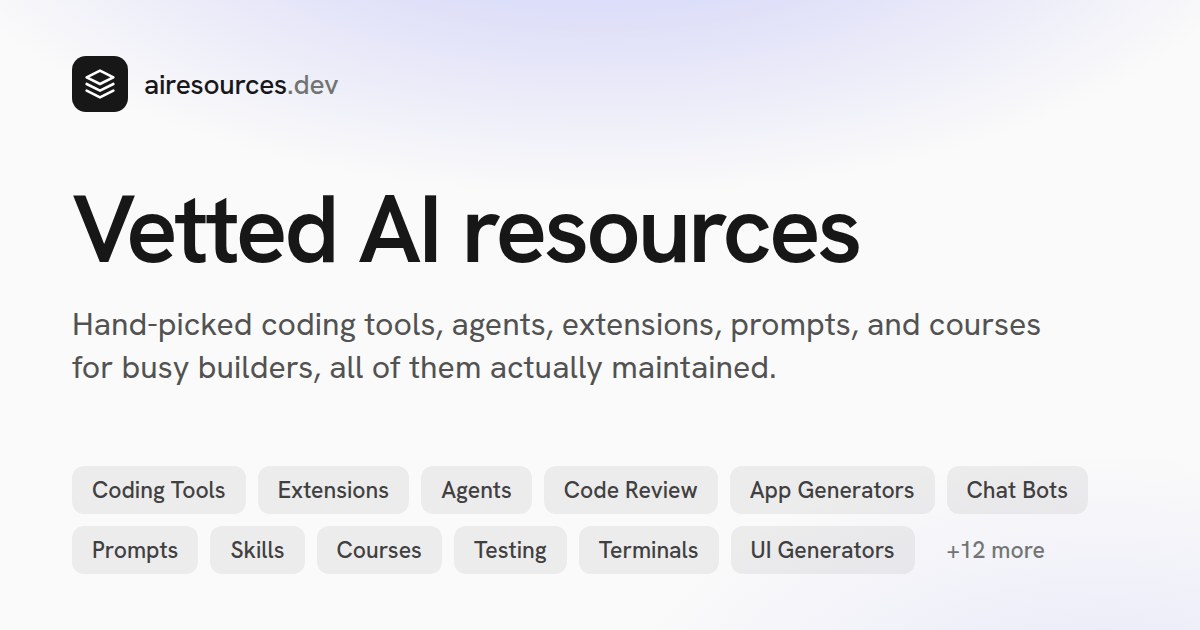
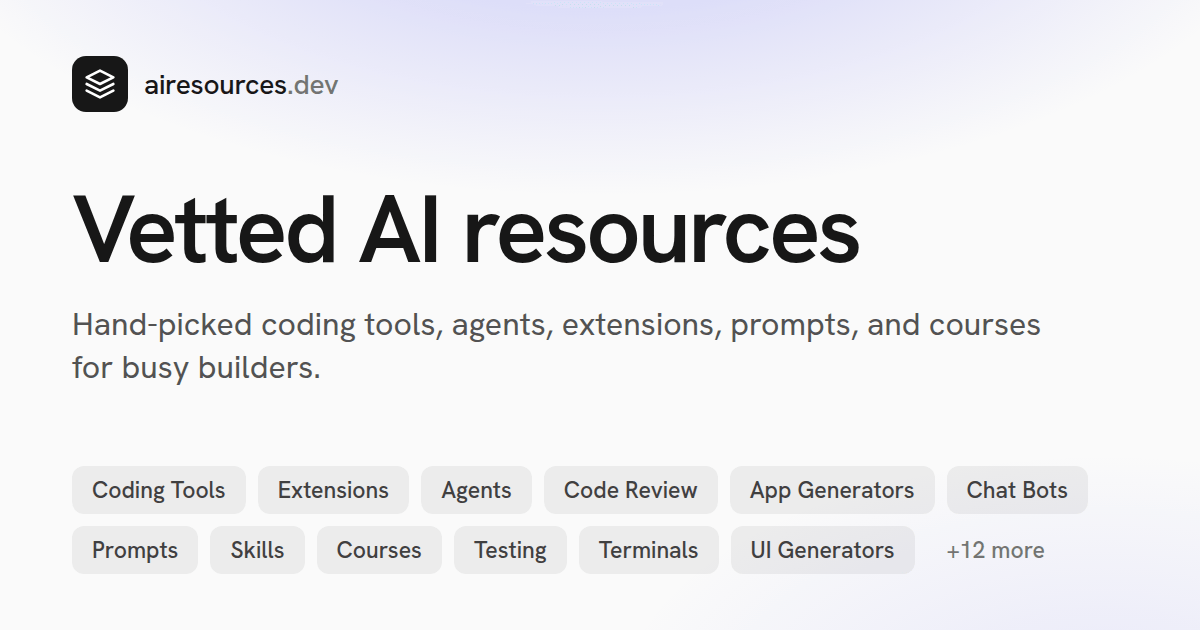
copy: trim the description

Changed region(s): [[0.2775, 0.573, 0.6475, 0.6032]]

diff --git a/scripts/og-image.html b/scripts/og-image.html
@@ -127,7 +127,7 @@
 
     <div>
       <h1>Vetted AI resources</h1>
-      <p class="tagline">Hand-picked coding tools, agents, extensions, prompts, and courses for busy builders, all of them actually maintained.</p>
+      <p class="tagline">Hand-picked coding tools, agents, extensions, prompts, and courses for busy builders.</p>
     </div>
 
     <div class="chips">
